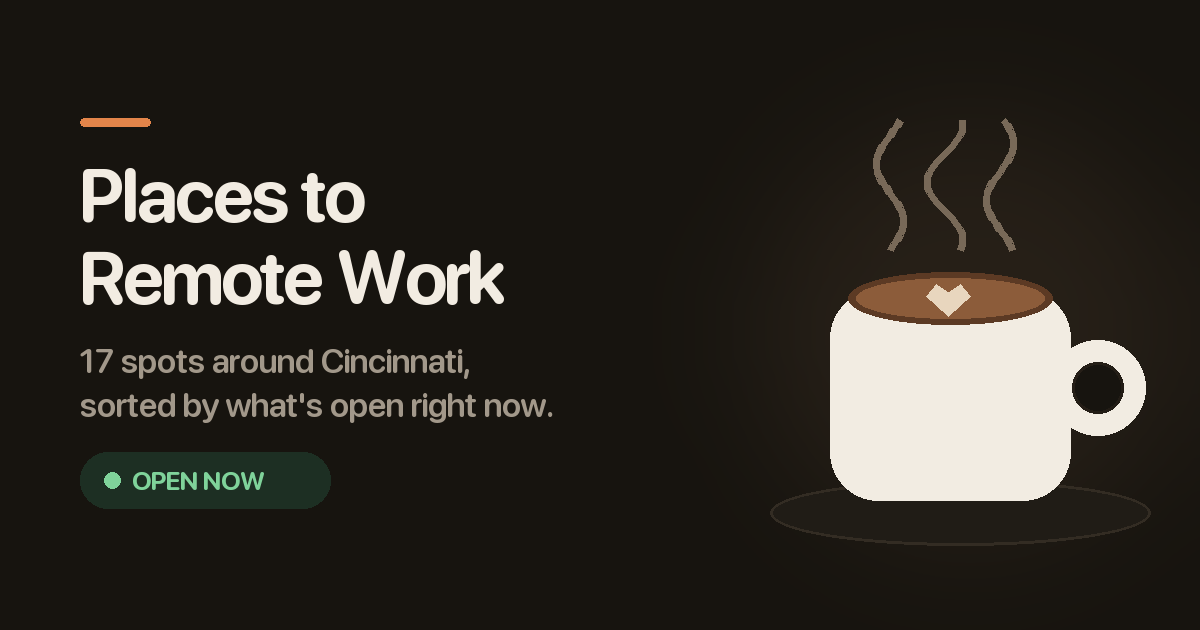
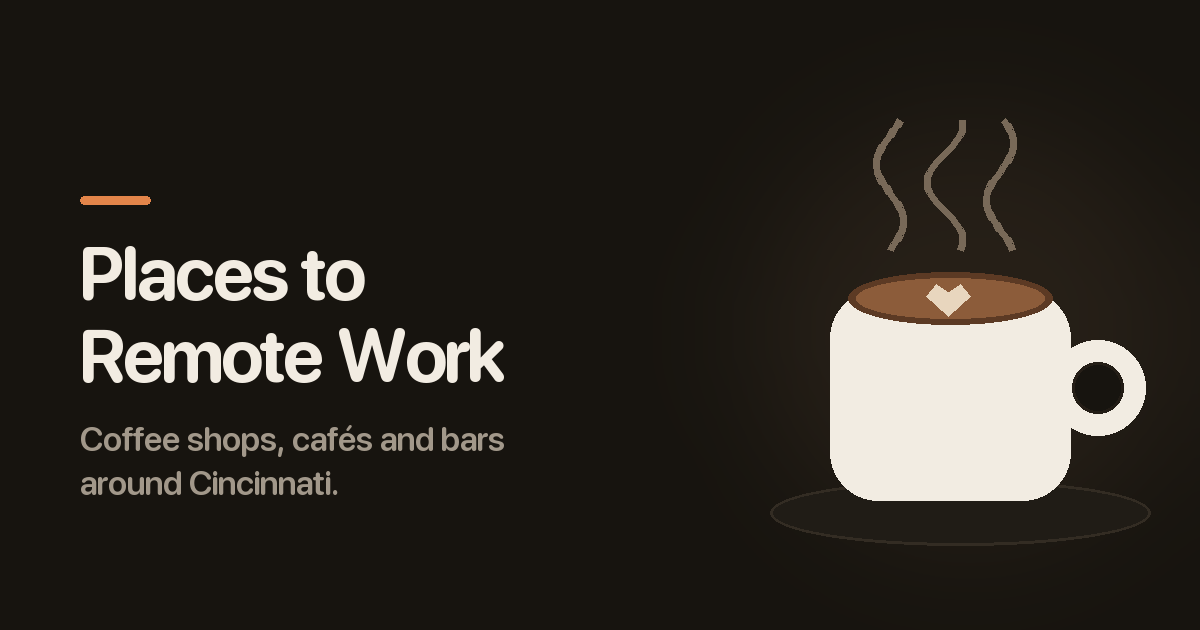
Drop count and open-now pill from the preview card

diff --git a/index.html b/index.html
@@ -11,7 +11,7 @@
 <meta property="og:type" content="website">
 <meta property="og:url" content="https://gwecko.github.io/cincy-remote-work/">
 <meta property="og:title" content="Places to Remote Work">
-<meta property="og:description" content="17 spots around Cincinnati, sorted by what's open right now.">
+<meta property="og:description" content="Coffee shops, cafés and bars around Cincinnati.">
 <meta property="og:image" content="https://gwecko.github.io/cincy-remote-work/preview.png">
 <meta property="og:image:width" content="1200">
 <meta property="og:image:height" content="630">
